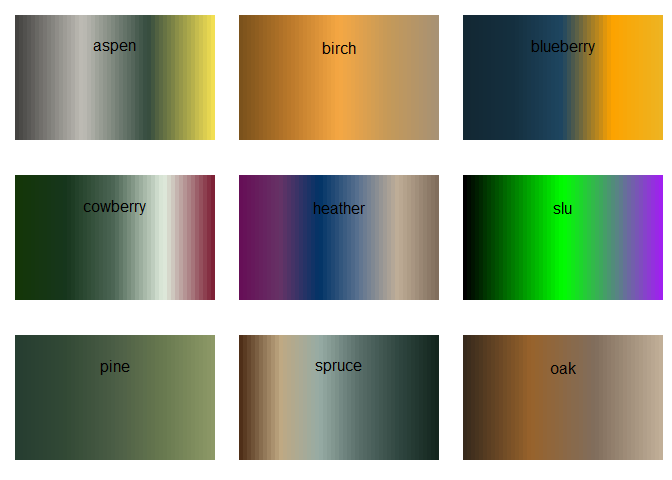
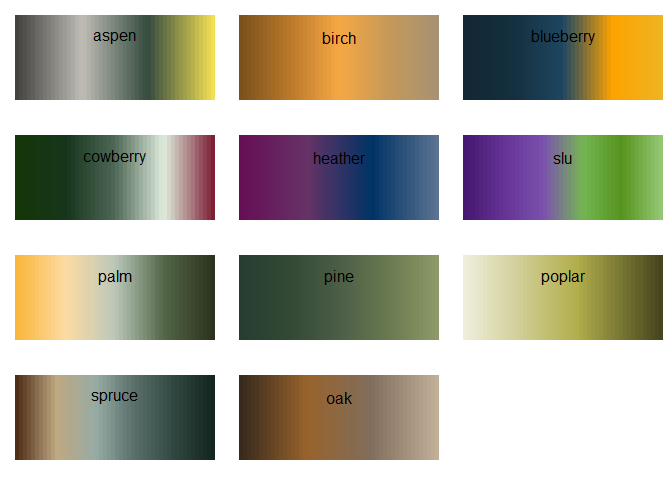
should work

diff --git a/README.md b/README.md
@@ -77,7 +77,7 @@ txsamp <- subset(txhousing, city %in%
   c("Houston", "Fort Worth", "San Antonio", "Dallas", "Austin"))
 
 ggplot(txsamp, aes(x = median, fill = city)) +
-  geom_histogram(position = "dodge", binwidth = 15000)+ scale_fill_sydskog_d(option = "oak")+ theme_bw()
+  geom_histogram(position = "dodge", binwidth = 15000)+ scale_fill_sydskog_d(option = "palm")+ theme_bw()
 ```
 
 ![](man/figures/README-unnamed-chunk-8-1.png)<!-- -->
@@ -89,7 +89,7 @@ txsamp <- subset(txhousing, city %in%
   c("Houston", "Fort Worth", "San Antonio", "Dallas", "Austin"))
 
 ggplot(txsamp, aes(x = median, fill = city)) +
-  geom_histogram(position = "dodge", binwidth = 15000)+ scale_fill_sydskog_d(option = "oak", direction = -1) + theme_bw()
+  geom_histogram(position = "dodge", binwidth = 15000)+ scale_fill_sydskog_d(option = "palm", direction = -1) + theme_bw()
 ```
 
 ![](man/figures/README-unnamed-chunk-9-1.png)<!-- -->
